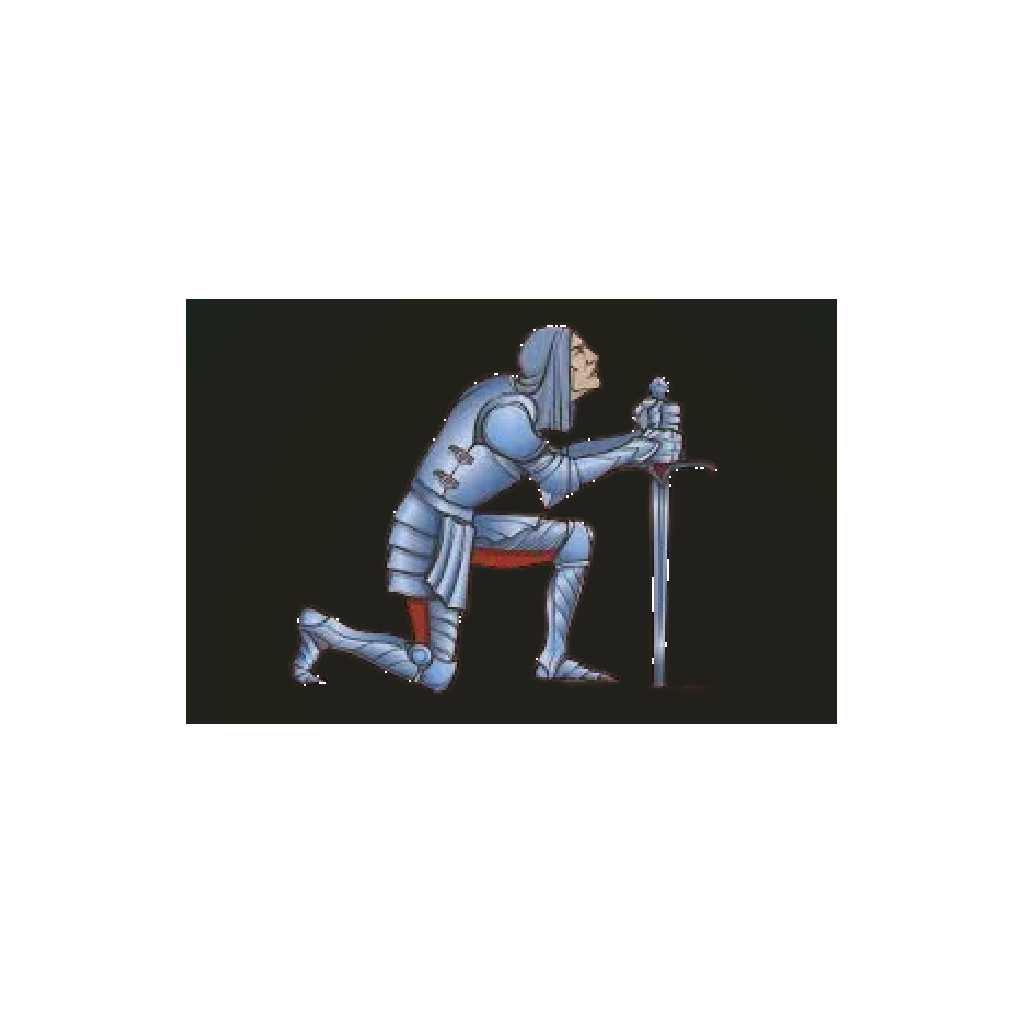
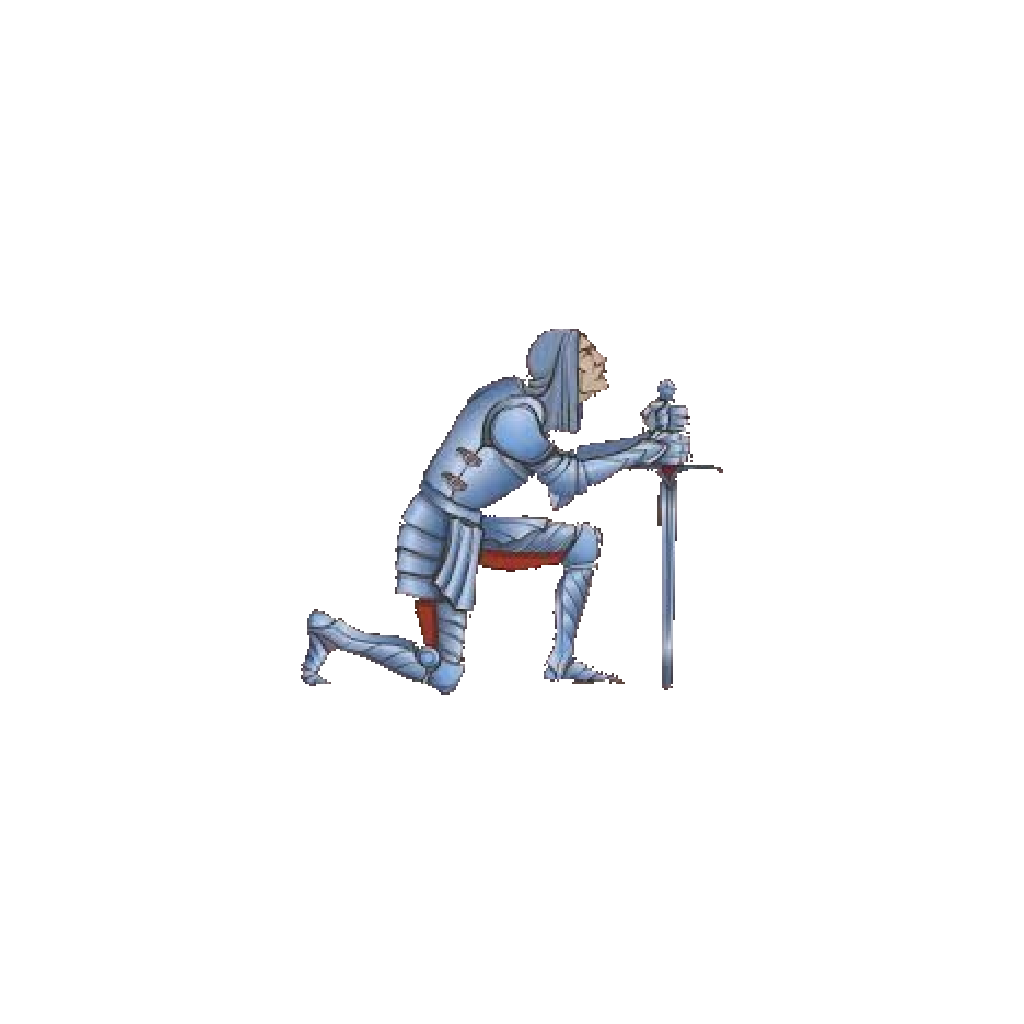
Remove murky plate behind knight splash with edge flood-fill.
Key the olive background to true alpha so the icon sits flush on the splash; bump to 0.1.6.

Changed region(s): [[0.1562, 0.2812, 0.8438, 0.7188]]

diff --git a/storage/dashboard/splash.css b/storage/dashboard/splash.css
@@ -52,7 +52,9 @@ html, body {
   image-rendering: auto;
   -webkit-user-drag: none;
   user-select: none;
-  filter: drop-shadow(0 12px 28px rgba(0, 0, 0, 0.45));
+  background: transparent;
+  /* soft glow only — no plate behind the knight */
+  filter: drop-shadow(0 8px 20px rgba(0, 0, 0, 0.35));
 }
 
 .splash-title {

diff --git a/tools/export_vassal_icon.py b/tools/export_vassal_icon.py
@@ -1,6 +1,7 @@
 """Build transparent VassalOps knight PNG/ICO from assets/vassal_knight_source.png."""
 from __future__ import annotations
 
+from collections import deque
 from pathlib import Path
 
 from PIL import Image
@@ -12,17 +13,70 @@ OUT_PNG = DASH / "vassal_icon.png"
 OUT_ICO = DASH / "vassal_icon.ico"
 OUT_MASTER = DASH / "assets" / "vassal_knight.png"
 
+# Splash stage background — used only if a residual fringe remains
+SPLASH_BG = (15, 20, 25, 255)  # #0f1419
 
-def key_black_to_alpha(img: Image.Image, threshold: int = 28) -> Image.Image:
-    """Make near-black background transparent; keep silver/steel/red figure."""
+
+def remove_background_flood(img: Image.Image, tol: int = 44) -> Image.Image:
+    """
+    Flood-fill from image edges using the corner seed color.
+    Source art uses a murky olive/brown plate (~26,35,30), not pure black —
+    so RGB<=28 keying left a visible box. Edge flood removes that plate.
+    """
     rgba = img.convert("RGBA")
-    pixels = rgba.load()
     w, h = rgba.size
+    pix = rgba.load()
+    sr, sg, sb, _ = pix[0, 0]
+
+    def is_bg(r: int, g: int, b: int) -> bool:
+        # Keep bright steel and red accents
+        if (r + g + b) / 3.0 > 62:
+            return False
+        if r >= 90 and r > g + 20 and r > b + 20:
+            return False
+        return abs(r - sr) <= tol and abs(g - sg) <= tol and abs(b - sb) <= tol
+
+    seeds = [(0, 0), (w - 1, 0), (0, h - 1), (w - 1, h - 1)]
+    # denser edge seeds so disconnected bg pockets near the border get hit
+    for x in range(0, w, 8):
+        seeds.append((x, 0))
+        seeds.append((x, h - 1))
+    for y in range(0, h, 8):
+        seeds.append((0, y))
+        seeds.append((w - 1, y))
+
+    q: deque = deque()
+    seen = set()
+    for s in seeds:
+        if s not in seen and is_bg(*pix[s[0], s[1]][:3]):
+            q.append(s)
+            seen.add(s)
+
+    while q:
+        x, y = q.popleft()
+        r, g, b, _a = pix[x, y]
+        if not is_bg(r, g, b):
+            continue
+        pix[x, y] = (r, g, b, 0)
+        for nx, ny in ((x + 1, y), (x - 1, y), (x, y + 1), (x, y - 1)):
+            if 0 <= nx < w and 0 <= ny < h and (nx, ny) not in seen:
+                nr, ng, nb, _ = pix[nx, ny]
+                if is_bg(nr, ng, nb):
+                    seen.add((nx, ny))
+                    q.append((nx, ny))
+
+    # Second pass: any remaining seed-like dark plate pixels (small islands)
     for y in range(h):
         for x in range(w):
-            r, g, b, a = pixels[x, y]
-            if r <= threshold and g <= threshold and b <= threshold:
-                pixels[x, y] = (r, g, b, 0)
+            r, g, b, a = pix[x, y]
+            if a == 0:
+                continue
+            if is_bg(r, g, b):
+                # only clear if a neighbor is already transparent (fringe / hole)
+                for nx, ny in ((x + 1, y), (x - 1, y), (x, y + 1), (x, y - 1)):
+                    if 0 <= nx < w and 0 <= ny < h and pix[nx, ny][3] == 0:
+                        pix[x, y] = (r, g, b, 0)
+                        break
     return rgba
 
 
@@ -52,18 +106,23 @@ def fit_square(img: Image.Image, size: int) -> Image.Image:
 def main() -> None:
     if not SOURCE.is_file():
         raise SystemExit(f"Missing source: {SOURCE}")
-    cut = key_black_to_alpha(Image.open(SOURCE))
-    cut = trim_alpha(cut, pad=6)
+    cut = remove_background_flood(Image.open(SOURCE))
+    cut = trim_alpha(cut, pad=4)
     DASH.mkdir(parents=True, exist_ok=True)
     (DASH / "assets").mkdir(parents=True, exist_ok=True)
-    fit_square(cut, 512).save(OUT_PNG, format="PNG")
+    ui = fit_square(cut, 512)
+    master = fit_square(cut, 1024)
+    ui.save(OUT_PNG, format="PNG")
+    master.save(OUT_MASTER, format="PNG")
     sizes = [(16, 16), (32, 32), (48, 48), (64, 64), (128, 128), (256, 256)]
     icons = [fit_square(cut, s[0]) for s in sizes]
     icons[0].save(OUT_ICO, format="ICO", sizes=sizes)
-    fit_square(cut, 1024).save(OUT_MASTER, format="PNG")
+    # sanity: corners must be transparent
+    c0 = master.getpixel((0, 0))
     print(f"Wrote {OUT_PNG}")
     print(f"Wrote {OUT_ICO}")
     print(f"Wrote {OUT_MASTER}")
+    print(f"master corner RGBA={c0} (alpha should be 0)")
 
 
 if __name__ == "__main__":
